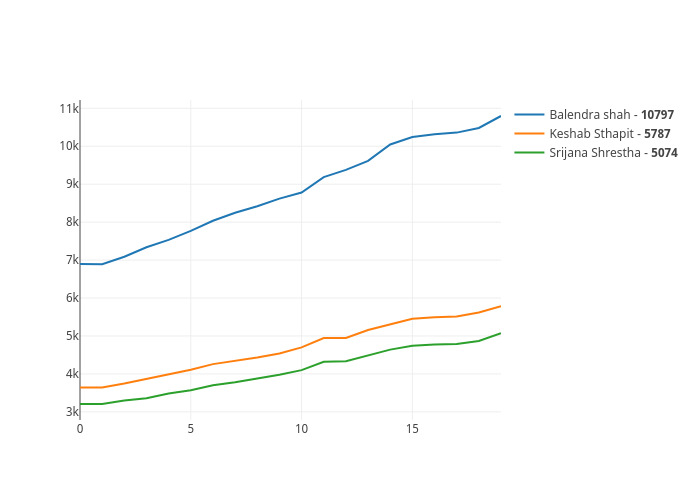
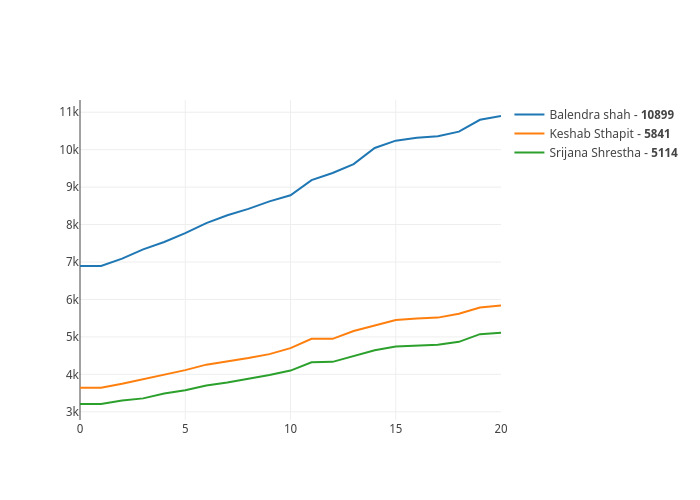
two res

diff --git a/public/index.js b/public/index.js
@@ -20,10 +20,10 @@ const getData = async () => {
     })
             
 }
-const sendImg = async (options) =>{
-    fetch(`/api/v1/postimage`, options).catch(err=>{
-            console.log(err);
-        });
+const sendImg = async (options) => {
+    fetch(`/api/v1/postimage`, options).catch(err => {
+        console.log(err);
+    });
 }
 
 const fillMaps = async () => {
@@ -45,6 +45,24 @@ const fillMaps = async () => {
         name: `Srijana Shrestha - <b>${Srijanadatas[Srijanadatas.length - 1]}</b>`,
         // text : Srijanadatas[Srijanadatas.length - 1]
     }
+
+
+    var layout = {
+
+        title: 'Vote counts of major mayoral candidates in KTM.',
+
+        uirevision: 'true',
+
+        xaxis: { autorange: true },
+
+        yaxis: { autorange: true },
+
+        width:500,
+
+        height:800
+
+    };
+
     document.getElementById('gd').innerHTML = ''
     await Plotly.newPlot("gd", [BalendraShah, KesabSthapit, SrijanaShrestha])
 
@@ -54,7 +72,7 @@ const fillMaps = async () => {
             headers: {
                 'Content-type': 'application/json'
             },
-            body: JSON.stringify({url})
+            body: JSON.stringify({ url })
         }
         console.log(options);
         sendImg(options)

diff --git a/app.js b/app.js
@@ -46,9 +46,9 @@ app.post('/api/v1/postimage', (req, res) => {
 	});
 	
 })
- const __dirname = path.resolve();
+const __dirname = path.resolve();
 app.get('/api/v1/image', (req, res) => {
-	res.sendFile(path.join(__dirname,'election.jpeg'))
+	res.sendFile(path.join(__dirname, 'election.jpeg'))
 })
 
 app.get('/api/v1/data', async (req, res) => {
@@ -86,13 +86,14 @@ app.get('/api/v1/data', async (req, res) => {
 			
 			myData.create({ data: mayor }, (err, data) => {
 				if (err) throw err;
-				// console.log(data);
-		
+				myData.find({}).exec((err, data) => {
+					if (err) throw err
+					return res.send(data)
+				})
 			})
+		} else {
+			res.send(data)
 		}
-		// console.log(data);
-		
-		res.send(data)
 
 	})
 	
